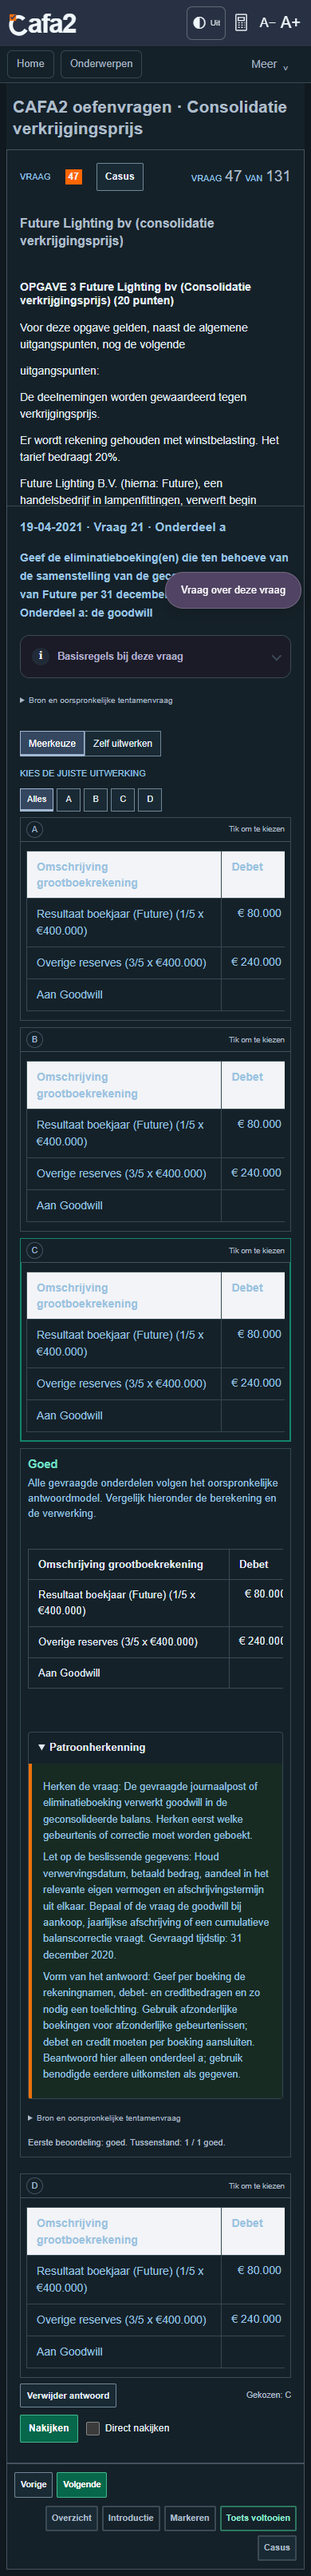
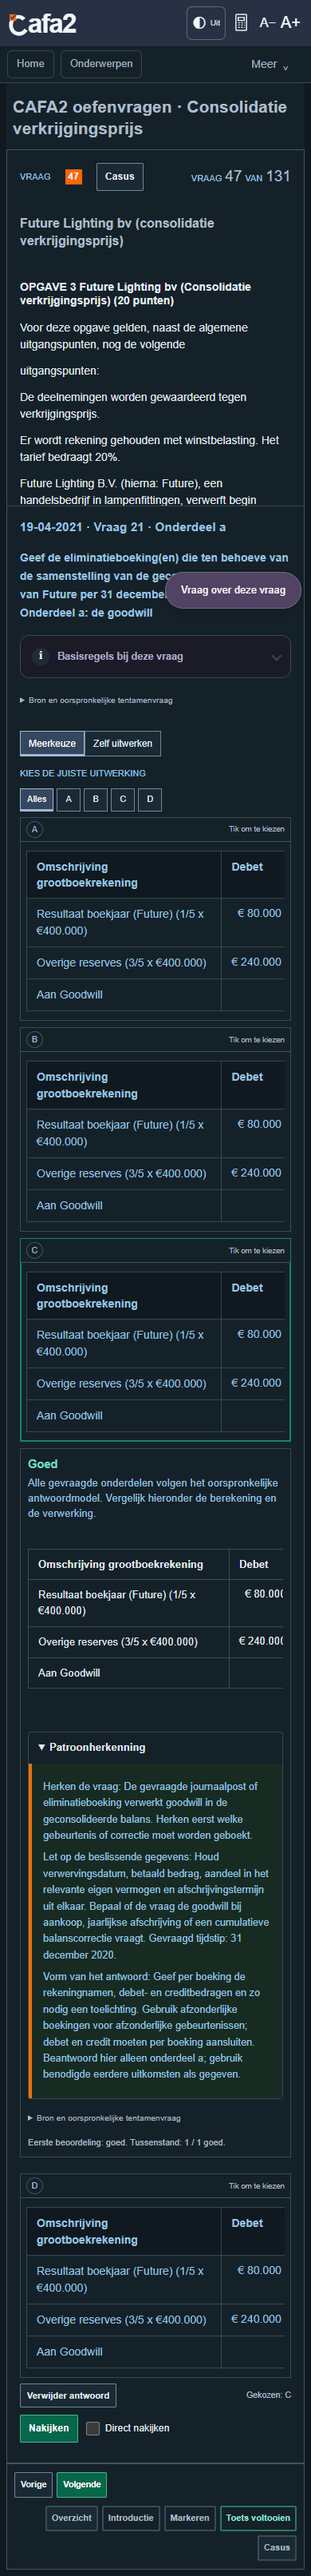
Houd casus en vraag samen naast de assistentkolom

diff --git a/css/study-assistant.css b/css/study-assistant.css
@@ -29,6 +29,7 @@
 @media screen and (min-width:900px){
  .exam-running .frame>.study-assistant-layout,.practice-question-frame>.study-assistant-layout{flex:1 1 auto;height:auto;min-height:0}
  .exam-running .study-assistant-layout:not(.is-stacked)>.exam-case-layout{height:100%;overflow:hidden}
+ .practice-surface .study-assistant-layout:not(.is-stacked)>.practice-case-layout{height:100%;overflow:hidden}
  .exam-running .study-assistant-layout>.exam-question-body{min-height:0;height:100%;overflow:auto}
  .question.study-assistant-page{height:var(--sa-page-height,calc(100dvh - 122px));min-height:0}
  .study-assistant-page .practice-question-frame{min-height:0;overflow:hidden}
@@ -39,6 +40,8 @@
 }
 .study-assistant-short .question-nav,.study-assistant-short .exam-footer{position:static!important}
 .exam-running.study-assistant-stacked main{height:auto;overflow:visible}
+.practice-surface.study-assistant-stacked main{height:auto;overflow:visible}
+.practice-surface.study-assistant-stacked .question:target,.practice-surface.study-assistant-stacked .practice-question-frame{height:auto;overflow:visible}
 .exam-running.study-assistant-stacked .frame>.study-assistant-layout{flex:none;height:auto}
 .exam-running.study-assistant-stacked .study-assistant-layout>.exam-question-body,.exam-running.study-assistant-stacked .study-assistant-primary>.exam-question-body{height:auto;overflow:visible;min-height:0}
 .exam-running.study-assistant-stacked .study-assistant-primary>.exam-case-panel{height:auto;max-height:45dvh;overflow:auto}

diff --git a/tests/study-assistant/browser.py b/tests/study-assistant/browser.py
@@ -37,7 +37,7 @@ try:
     browser_type=getattr(p,engine)
     browser=browser_type.launch(headless=True,**({'executable_path':executable} if executable and engine=='chromium' else {}),
                                 **({'args':['--no-sandbox']} if engine=='chromium' else {}))
-    page=browser.new_page(viewport={'width':1366,'height':950});page.set_default_timeout(12000)
+    page=browser.new_page(viewport={'width':1366,'height':950});page.set_default_timeout(int(os.environ.get('ASSISTANT_QA_TIMEOUT_MS','12000')))
     page.on('pageerror',lambda e:errors.append(str(e)))
     def route(r):
       if not r.request.url.startswith(base): r.abort();return
@@ -124,6 +124,8 @@ try:
       check(f'Practice type {sample["type"]} opens in its actual route',
             page.evaluate('''([code,id])=>document.querySelector('#'+code+'-'+id)?.querySelector('.type-label')?.textContent.trim()''',
                           [sample['code'],str(sample['id'])])==sample['type'])
+      if sample['type']=='Voorraadtabel':
+        check('Practice case and question share the primary column beside the assistant',page.locator('.question:target .study-assistant-layout>.practice-case-layout').count()==1)
     visit('#kap-1');page.wait_for_function('document.querySelector("[data-context-title]")?.textContent?.includes("Vraag 1")')
     page.locator('#option-kap-1-1').click()
     before=page.evaluate('JSON.stringify(CafaPractice.getAnswer("kap",1))')
